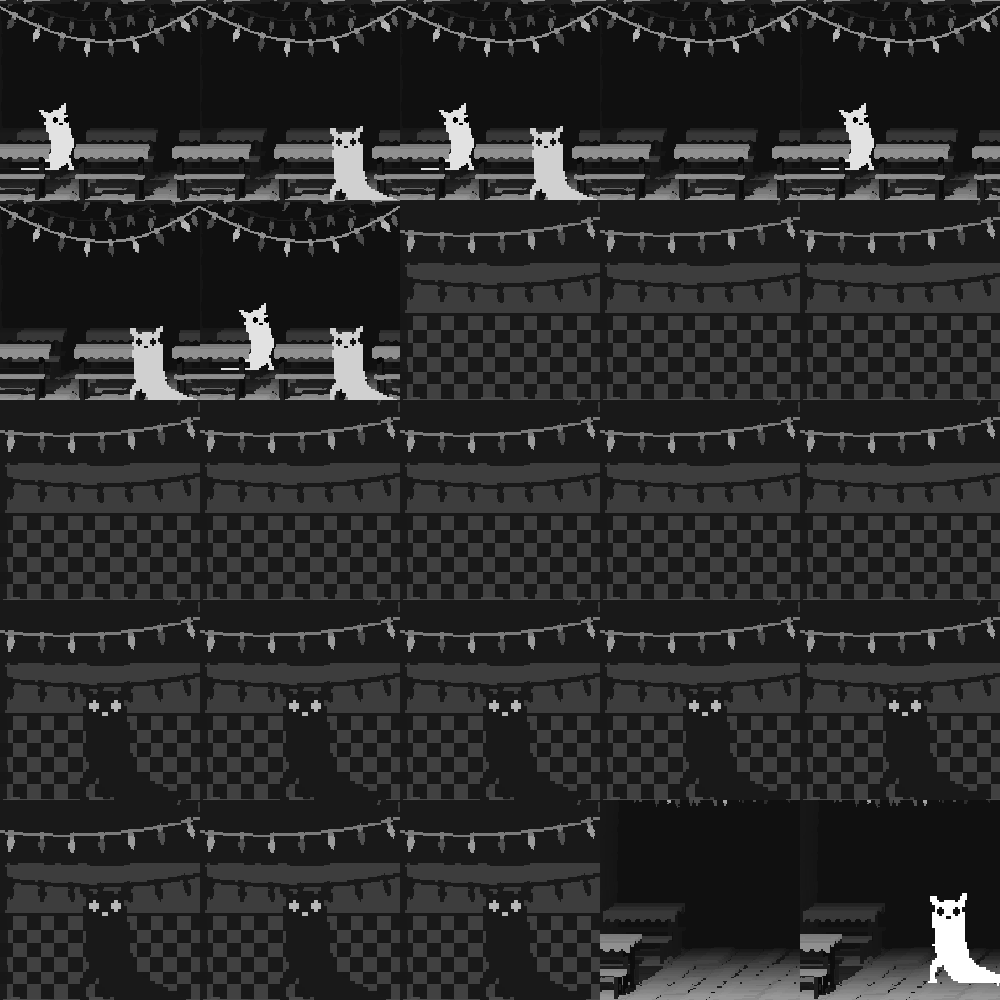
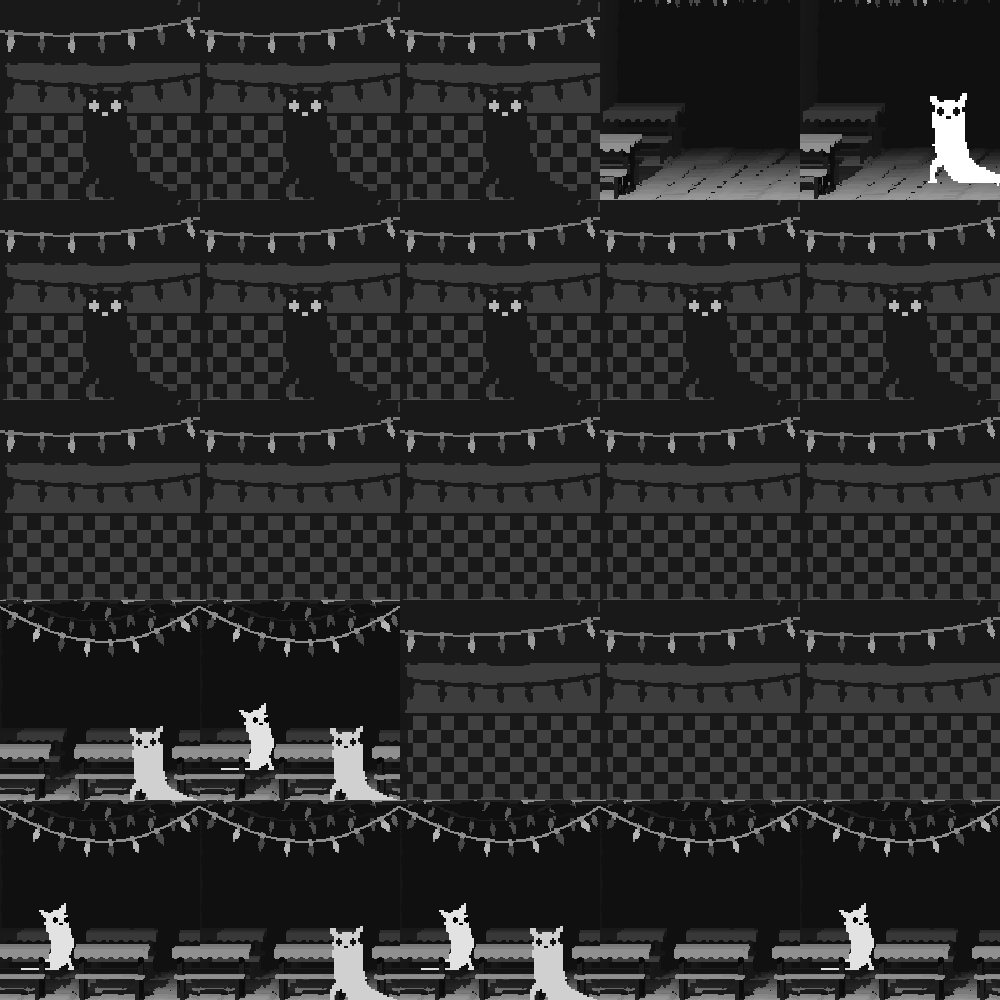
Cam shows correctly now

diff --git a/src/Graphics/CamHoloImage.cs b/src/Graphics/CamHoloImage.cs
@@ -10,8 +10,6 @@ namespace FCAP.Graphics
         internal class CamHoloImage : OverseerImage.HoloImage
         {
             public CamHologram parent;
-            private int file = -1;
-            private const float MaxPanOffset = 1f - Constants.CamsShaderThresh;
 
             public CamHoloImage(CamHologram hologram, int firstSprite, IOwnAHoloImage imageOwner) : base(hologram, firstSprite, imageOwner)
             {
@@ -37,16 +35,12 @@ namespace FCAP.Graphics
             public override void DrawSprites(RoomCamera.SpriteLeaser sLeaser, RoomCamera rCam, float timeStacker, Vector2 camPos, Vector2 partPos, Vector2 headPos, float useFade, float popOut, Color useColor)
             {
                 base.DrawSprites(sLeaser, rCam, timeStacker, camPos, partPos, headPos, useFade, popOut, useColor);
-                if (file != parent.CurrFileIndex)
-                {
-                    file = parent.CurrFileIndex;
-                }
 
                 var image = sLeaser.sprites[firstSprite];
                 var oldColor = image.color;
                 image.shader = rCam.game.rainWorld.Shaders[Constants.CamShaderName];
-                image.element = Futile.atlasManager.GetElementWithName("FCAP_PROJ" + file);
-                image.color = new Color(oldColor.r, oldColor.g, (parent.CurrImageIndex + 1) / 25f);
+                image.element = Futile.atlasManager.GetElementWithName("FCAP_PROJ" + parent.CurrFileIndex.ToString());
+                image.color = new Color(oldColor.r, oldColor.g, parent.CurrImageIndex / 25f);
                 image.scaleX = 0.2f * Mathf.Lerp(0.5f, 1f, useFade);
                 image.scaleY = 0.2f * Mathf.Lerp(0.5f, 1f, useFade);
             }

diff --git a/src/GameController.cs b/src/GameController.cs
@@ -44,10 +44,10 @@ namespace FCAP
             this.room = room;
             Instance = this;
             AIs = [
-                new NightcatAI(0),
-                new HunterAI(0),
+                new SurvivorAI(0),
                 new MonkAI(0),
-                new SurvivorAI(0)
+                new HunterAI(0),
+                new NightcatAI(0)
             ];
 
             mapDisplay = new MapDisplay(this, room);
@@ -147,12 +147,16 @@ namespace FCAP
                 RemoveOverseer(ref camsOverseer, true);
             }
         }
+
         public void SwitchCamViewing()
         {
             if (OutOfPower) return;
             CamViewing = CamSelected;
             CamViewTimer = 0;
+            var temp = camsOverseer.hologram as CamHologram;
+            Plugin.Logger.LogDebug(temp.CamPhotoNum + " (" + temp.CurrFileIndex + "," + temp.CurrImageIndex + ")");
         }
+
         public void SwitchCamSelecting(Map.Direction dir)
         {
             if (OutOfPower) return;

diff --git a/src/Graphics/MapDisplay.cs b/src/Graphics/MapDisplay.cs
@@ -112,7 +112,7 @@ namespace FCAP.Graphics
                 if (viewedIndex != selectedIndex)
                     sLeaser.sprites[viewedIndex].color = greenColor;
 
-                var lerpSin = Mathf.Sin(Mathf.Lerp(sin, sin + 1, timeStacker) * Mathf.Deg2Rad * 9f);
+                var lerpSin = Mathf.Sin(Mathf.Lerp(sin, sin + 1, timeStacker) * Mathf.Deg2Rad * 16f);
                 sLeaser.sprites[selectedIndex].color = Color.Lerp(sLeaser.sprites[selectedIndex].color, greenColor, lerpSin);
             }
 

diff --git a/src/Graphics/CamHologram.cs b/src/Graphics/CamHologram.cs
@@ -1,6 +1,4 @@
 using System;
-using System.Collections.Generic;
-using System.Linq;
 using MoreSlugcats;
 using OverseerHolograms;
 using static OverseerHolograms.OverseerImage;
@@ -29,7 +27,7 @@ namespace FCAP.Graphics
             throw new NotImplementedException();
         }
 
-        private int CamPhotoNum
+        public int CamPhotoNum
         {
             get
             {
